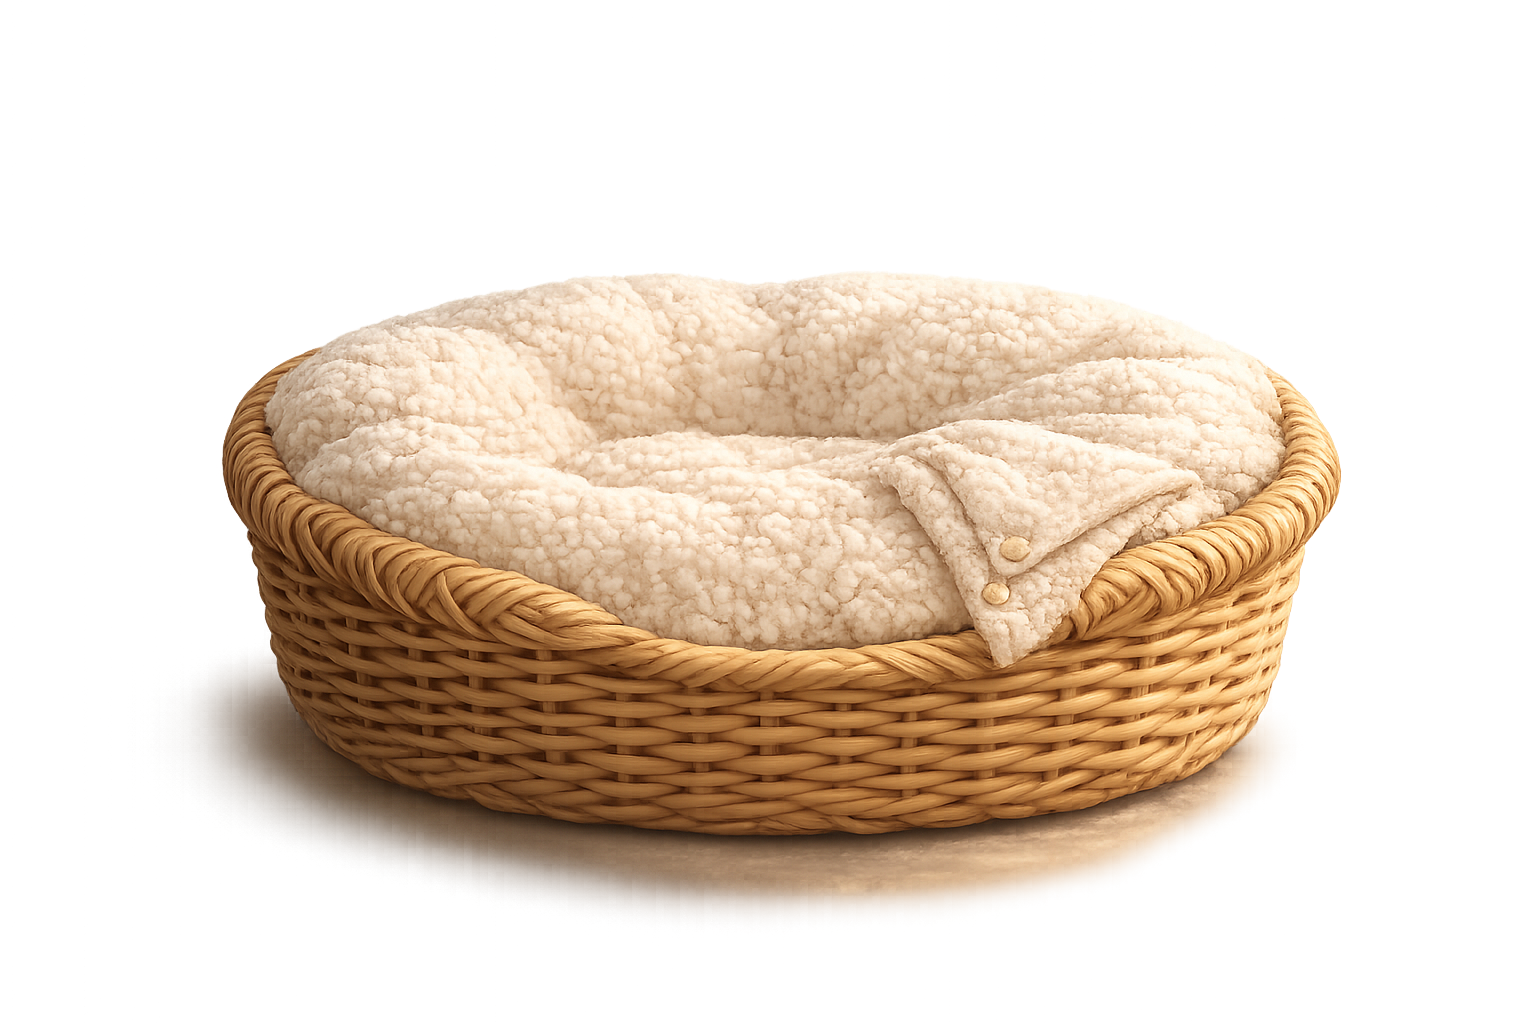
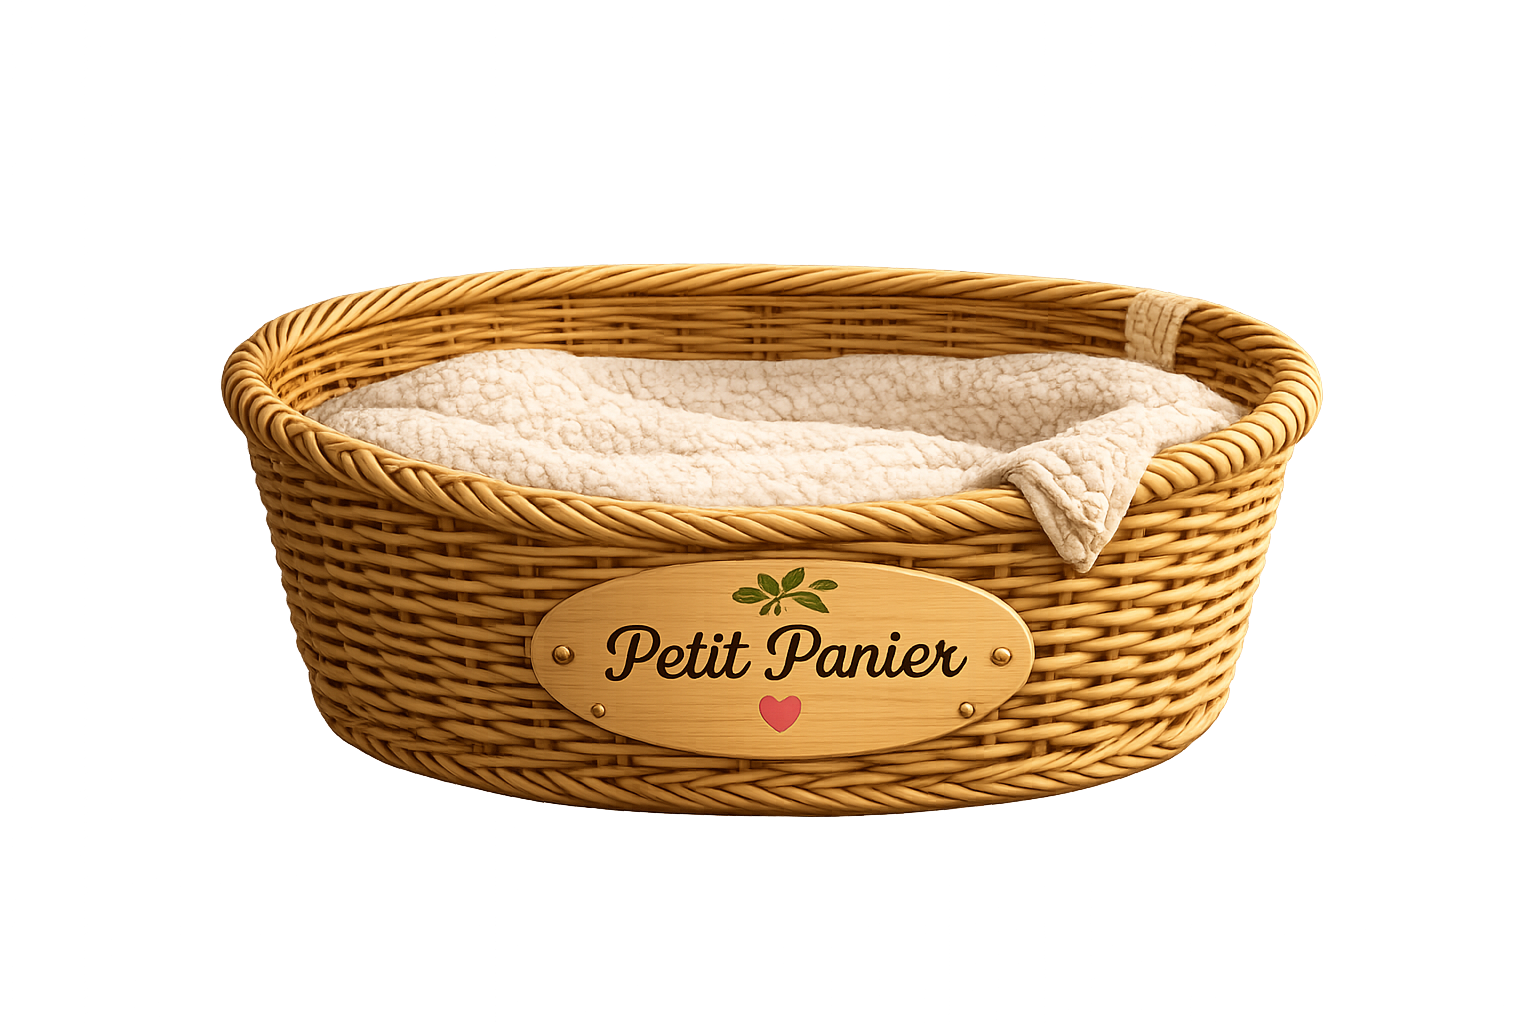
Finalisation du panier et intégration de Fifi

diff --git a/components/onboarding/SceneAccueil.tsx b/components/onboarding/SceneAccueil.tsx
@@ -19,8 +19,8 @@ const CLE_INTRO_VUE = "fifi_intro_vue";
 
 const HAUTEUR_FIFI = 360;
 const LARGEUR_FIFI = HAUTEUR_FIFI * (FIFI_CANVAS_W / FIFI_CANVAS_H);
-const POSITION_FIFI = 55;
-const LARGEUR_PANIER = 280;
+const POSITION_FIFI = 98;
+const LARGEUR_PANIER = 420;
 
 const OREILLE_GAUCHE = {
   left: (280 / FIFI_CANVAS_W) * 100,
@@ -39,11 +39,11 @@ const OREILLE_DROITE = {
 const MARCHE_RATIO = 885 / 1112;
 const SAUT_RATIO = 899 / 713;
 
-const HAUTEUR_MARCHE = 225;
+const HAUTEUR_MARCHE = HAUTEUR_FIFI;
 const LARGEUR_MARCHE = HAUTEUR_MARCHE * MARCHE_RATIO;
 
-const LARGEUR_SAUT = LARGEUR_MARCHE * 1.15;
-const HAUTEUR_SAUT = LARGEUR_SAUT / SAUT_RATIO;
+const HAUTEUR_SAUT = HAUTEUR_FIFI;
+const LARGEUR_SAUT = HAUTEUR_SAUT * SAUT_RATIO;
 
 const DECALAGE_ENTREE = 400; // distance (px) hors-écran à gauche, point de départ de la marche
 const MODE_DEVELOPPEMENT_INTRO = true;
@@ -76,7 +76,7 @@ export default function SceneAccueil({ onTerminerOnboarding }: Props) {
   const opaciteCorpsGroupe = useRef(new Animated.Value(0)).current;
   const rebondCorps = useRef(new Animated.Value(1)).current;
   const dandinement = useRef(new Animated.Value(0)).current;
-
+const POSITION_BLOC = -220;
   useEffect(() => {
     if (!pretPourSequence) return;
 
@@ -312,8 +312,11 @@ export default function SceneAccueil({ onTerminerOnboarding }: Props) {
 
   return (
     <View style={styles.container}>
-      <Panier width={LARGEUR_PANIER} style={styles.panier} />
-
+      <Panier
+    partie="arriere"
+    width={LARGEUR_PANIER} 
+    style={styles.panier} 
+    />
       {/* Pose "marche" : visible uniquement pendant l'entrée */}
       <Animated.View
         pointerEvents="none"
@@ -327,7 +330,7 @@ export default function SceneAccueil({ onTerminerOnboarding }: Props) {
         }}
       >
         <Image
-          source={require("../../assets/characters/fifi_marche.png")}
+          source={require("../../assets/characters/Fifi/poses/marche_01.png")}
           resizeMode="contain"
           style={{ width: "100%", height: "100%" }}
         />
@@ -346,7 +349,7 @@ export default function SceneAccueil({ onTerminerOnboarding }: Props) {
         }}
       >
         <Image
-          source={require("../../assets/characters/fifi_saut.png")}
+          source={require("../../assets/characters/Fifi/poses/saut.png")}
           resizeMode="contain"
           style={{ width: "100%", height: "100%" }}
         />
@@ -356,7 +359,7 @@ export default function SceneAccueil({ onTerminerOnboarding }: Props) {
       <Animated.View
         style={{
           position: "absolute",
-          bottom: POSITION_FIFI,
+          bottom: POSITION_FIFI-240,
           width: LARGEUR_FIFI,
           height: HAUTEUR_FIFI,
           opacity: opaciteCorpsGroupe,
@@ -373,7 +376,7 @@ export default function SceneAccueil({ onTerminerOnboarding }: Props) {
             ]}
           >
             <Image
-              source={require("../../assets/characters/fifi_poitrine.png")}
+              source={require("../../assets/characters/Fifi/visage/poitrine.png")}
               resizeMode="contain"
               style={{ width: "100%", height: "100%" }}
             />
@@ -381,7 +384,7 @@ export default function SceneAccueil({ onTerminerOnboarding }: Props) {
 
           <Animated.View style={[StyleSheet.absoluteFillObject, { opacity: clignement }]}>
             <Image
-              source={require("../../assets/characters/fifi_yeux_fermes.png")}
+              source={require("../../assets/characters/Fifi/visage/yeux_fermes.png")}
               resizeMode="contain"
               style={{ width: "100%", height: "100%" }}
             />
@@ -389,7 +392,7 @@ export default function SceneAccueil({ onTerminerOnboarding }: Props) {
 
           <Animated.View style={[StyleSheet.absoluteFillObject, { opacity: clinOeil }]}>
             <Image
-              source={require("../../assets/characters/fifi_clin_oeil_droit.png")}
+              source={require("../../assets/characters/Fifi/visage/clin_oeil_droit.png")}
               resizeMode="contain"
               style={{ width: "100%", height: "100%" }}
             />
@@ -407,7 +410,7 @@ export default function SceneAccueil({ onTerminerOnboarding }: Props) {
             }}
           >
             <Image
-              source={require("../../assets/characters/fifi_oreille_gauche.png")}
+              source={require("../../assets/characters/Fifi/visage/oreille_gauche.png")}
               resizeMode="contain"
               style={{ width: "100%", height: "100%" }}
             />
@@ -425,7 +428,7 @@ export default function SceneAccueil({ onTerminerOnboarding }: Props) {
             }}
           >
             <Image
-              source={require("../../assets/characters/fifi_oreille_droite.png")}
+              source={require("../../assets/characters/Fifi/visage/oreille_droite.png")}
               resizeMode="contain"
               style={{ width: "100%", height: "100%" }}
             />
@@ -433,6 +436,16 @@ export default function SceneAccueil({ onTerminerOnboarding }: Props) {
         </Pressable>
       </Animated.View>
 
+<Panier
+  partie="avant"
+  width={LARGEUR_PANIER}
+  style={[
+    styles.panier,
+    {
+      transform: [{ translateY: 7 }],
+    },
+  ]}
+/>
       {afficherCarte && (
         <View style={styles.carteConteneur}>
           <CarteBienvenue onContinuer={terminerOnboarding} />
@@ -450,7 +463,7 @@ const styles = StyleSheet.create({
     justifyContent: "flex-end",
     alignItems: "center",
   },
-  panier: { position: "absolute", bottom: 0 },
+  panier: { position: "absolute", bottom: -220 },
   carteConteneur: {
     position: "absolute",
     bottom: -260, // sous la scène ; ajuste selon la mise en page de ton écran

diff --git a/components/onboarding/Panier.tsx b/components/onboarding/Panier.tsx
@@ -10,16 +10,34 @@ import {
 type Props = {
   width?: number;
   style?: StyleProp<ViewStyle>;
+  partie?: "complet" | "avant" | "arriere";
 };
 
 export default function Panier({
   width = 230,
   style,
+  partie = "complet",
 }: Props) {
+  let source;
+
+  switch (partie) {
+  case "avant":
+  source = require("../../assets/furniture/panier_avant.png");
+  break;
+
+    case "arriere":
+      source = require("../../assets/furniture/panier_arriere.png");
+      break;
+
+    default:
+      source = require("../../assets/furniture/panier_officiel.png");
+      break;
+  }
+
   return (
     <View style={[styles.container, style]}>
       <Image
-        source={require("../../assets/furniture/panier_officiel.png")}
+        source={source}
         resizeMode="contain"
         style={{
           width,

diff --git a/components/onboarding/Fifi.tsx b/components/onboarding/Fifi.tsx
@@ -16,7 +16,7 @@ export default function Fifi({ size = 260, style }: Props) {
   return (
     <View style={[styles.container, { width: largeur, height: size }, style]}>
       <Image
-        source={require("../../assets/characters/fifi_corps.png")}
+        source={require("../../assets/characters/Fifi/poses/assise.png")}
         resizeMode="contain"
         style={{ width: "100%", height: "100%" }}
       />

diff --git a/components/FifiAccueil.js b/components/FifiAccueil.js
@@ -1,0 +1,19 @@
+import React from "react";
+import { Image, StyleSheet } from "react-native";
+
+export default function FifiAccueil() {
+  return (
+    <Image
+      source={require("../assets/characters/Fifi/poses/assise.png")}
+      style={styles.image}
+    />
+  );
+}
+
+const styles = StyleSheet.create({
+  image: {
+    width: 220,
+    height: 220,
+    resizeMode: "contain",
+  },
+});

diff --git a/components/Fifi.js b/components/Fifi.js
@@ -6,7 +6,7 @@ export default function Fifi() {
     <View style={styles.container}>
 
       <Image
-        source={require("../assets/images/fifi-panier.png")}
+        source={require("../assets/furniture/panier_officiel.png")}
         style={styles.image}
       />
 

diff --git a/components/CarteFifi.js b/components/CarteFifi.js
@@ -7,6 +7,7 @@ import {
 } from "react-native";
 
 import BulleFifi from "./BulleFifi";
+import FifiAccueil from "./FifiAccueil";
 
 import { obtenirEtatFifi } from "../services/fifiEngine";
 
